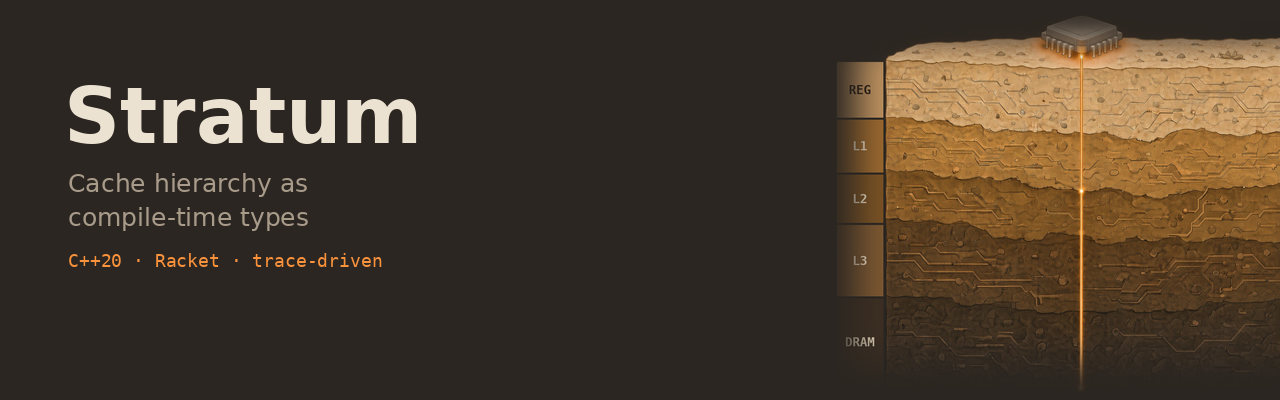
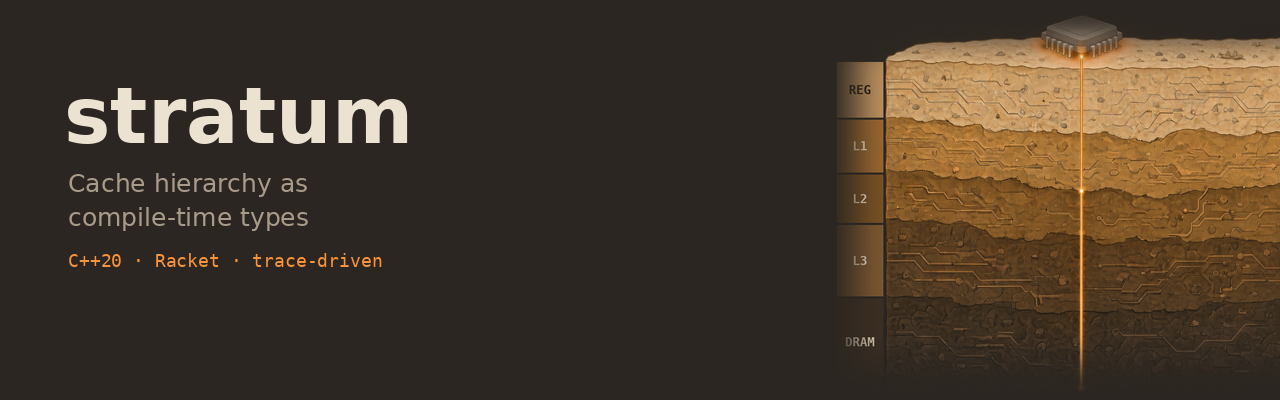
docs: write the project name in lowercase and redraw the images
The README, CMake project name, and script comments say stratum, and the
README links point at the lowercase repo name. The banner and social preview
are redrawn with a lowercase title.

Changed region(s): [[0.0312, 0.21, 0.3438, 0.36]]

diff --git a/README.md b/README.md
@@ -1,19 +1,19 @@
 <p align="center">
-  <img src="docs/img/banner.png" alt="Stratum: cache hierarchy as compile-time types" width="900">
+  <img src="docs/img/banner.png" alt="stratum: cache hierarchy as compile-time types" width="900">
 </p>
 
-# Stratum
+# stratum
 
 ![License](https://img.shields.io/badge/license-MIT-blue.svg)
 ![C++20](https://img.shields.io/badge/c%2B%2B-20-blue.svg)
-![CI/CD](https://github.com/TheCloudlet/Stratum/workflows/CI%2FCD%20Pipeline/badge.svg)
-![Format](https://github.com/TheCloudlet/Stratum/workflows/Format%20Check/badge.svg)
+![CI/CD](https://github.com/TheCloudlet/stratum/workflows/CI%2FCD%20Pipeline/badge.svg)
+![Format](https://github.com/TheCloudlet/stratum/workflows/Format%20Check/badge.svg)
 
 **A high-performance architectural exploration framework designed for rapid cache hierarchy evaluation.**
 
-Stratum leverages **C++20 template metaprogramming** to model memory hierarchies with static binding, eliminating virtual dispatch overhead ("Zero-Overhead"). This approach mirrors actual hardware instantiation—where cache topology is fixed at synthesis time—allowing architects to validate configurations and replacement policies with maximum simulation throughput.
+stratum leverages **C++20 template metaprogramming** to model memory hierarchies with static binding, eliminating virtual dispatch overhead ("Zero-Overhead"). This approach mirrors actual hardware instantiation—where cache topology is fixed at synthesis time—allowing architects to validate configurations and replacement policies with maximum simulation throughput.
 
-## Why Stratum? (So What?)
+## Why stratum? (So What?)
 
 **This project demonstrates:**
 
@@ -111,7 +111,7 @@ flowchart TD
 ### Build and Run (30 seconds)
 
 ```bash
-git clone https://github.com/TheCloudlet/Stratum.git && cd Stratum
+git clone https://github.com/TheCloudlet/stratum.git && cd stratum
 cmake -B build -DCMAKE_BUILD_TYPE=Release && cmake --build build
 ./build/bin/stratum
 ```
@@ -295,9 +295,9 @@ MIT License - see LICENSE file for details.
 
 ```bibtex
 @software{stratum2025,
-  title={Stratum: A Zero-Overhead Cache Hierarchy Simulator},
+  title={stratum: A Zero-Overhead Cache Hierarchy Simulator},
   author={TheCloudlet},
   year={2025},
-  url={https://github.com/TheCloudlet/Stratum}
+  url={https://github.com/TheCloudlet/stratum}
 }
 ```
